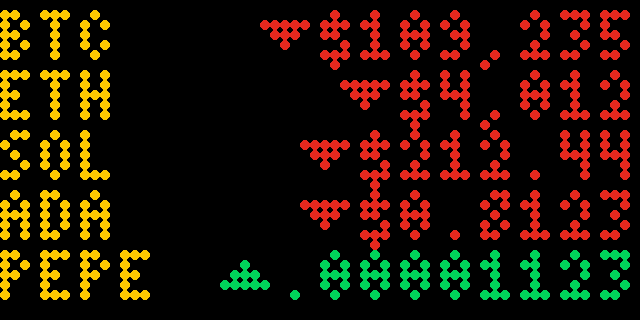
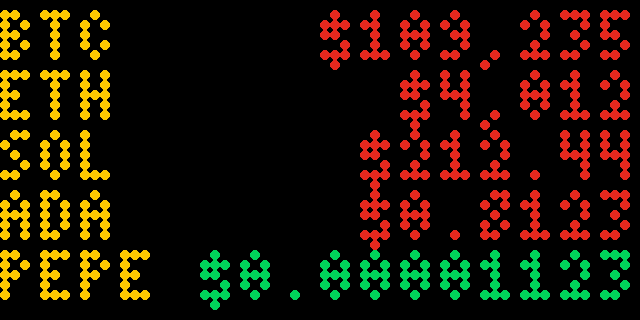
List view: symbol + whole price in green/red, list pages only
- Each row is now the symbol and the whole price (e.g. $77,530, not 77K),
  colored green if up for the day and red if down. The arrow and % change
  are gone. To fit, the currency sign and then the symbol are shortened
  before the price ever is; K/M is a last resort.
- List view shows only list pages: starred coins no longer add big and
  single-coin screens in front of the list. Focus still narrows the list
  to starred coins.
- Phone page labels, README, tests and list screenshots updated.

Claude-Session: https://claude.ai/code/session_01CrJip9iJt4GpEiYUED5guG

diff --git a/render.py b/render.py
@@ -831,32 +831,13 @@ class Renderer:
     def _drawable(font, text):
         return all(ord(c) in font.glyphs for c in text)
 
-    @staticmethod
-    def _arrow(img, x, baseline, up, color):
-        """5x3 triangle for fonts without ▲/▼ glyphs (4x6). Returns its width + gap."""
-        px = img.load()
-        rows = [(2, 2), (1, 3), (0, 4)] if up else [(0, 4), (1, 3), (2, 2)]
-        for dy, (a, b) in enumerate(rows):
-            for dx in range(a, b + 1):
-                px[x + dx, baseline - 4 + dy] = color
-        return 6
-
-    @staticmethod
-    def list_changes(change):
-        """Always with the % sign; one decimal unless there's no room at all."""
-        if change is None:
-            return ["--"]
-        arrow = "▲" if change >= 0 else "▼"
-        a = abs(change)
-        return [f"{arrow}{a:.1f}%", f"{arrow}{a:.0f}%"] if a < 100 else [f"{arrow}{a:.0f}%"]
-
     def list_page(self, assets, rows=5, stale=False):
-        """One page of up to ``rows`` coins.
+        """One page of up to ``rows`` coins: symbol on the left, the full price on the
+        right, colored green/red by the 24h change (no arrow or %).
 
-        rows=5: 4x6 font; symbol, then ▲/▼ + price colored by the 24h change.
-        rows=4: 5x8 font; symbol, price colored by the 24h change, and ▲/▼ % change.
-        A row that's too wide is shortened step by step (fewer digits, K/M, no
-        currency sign, shorter % change) until it fits the 64-pixel width.
+        rows=5 uses the 4x6 font, rows=4 the 5x8 font. The price is kept whole as long as
+        possible: full price, then without the currency sign, then a shorter symbol, and
+        only as a last resort a shortened price (4,012 -> 4.0K).
         """
         rows = rows if rows in self.LIST_ROWS else 5
         img = self._base()
@@ -866,41 +847,27 @@ class Renderer:
         gap = 3 if rows == 5 else 2
         for i, a in enumerate(assets[:rows]):
             baseline = top + i * line + font.ascent
-            change = a.get("change_24h")
-            color = trend_color(change)
-            sym = a["symbol"][:6]
-            sw = font.width(sym)
+            color = trend_color(a.get("change_24h"))
             right = 61 if stale and i == rows - 1 else 64  # leave room for the stale dot
             prices = [p for p in self.compact_prices(a["price"], self.currency) if self._drawable(font, p)]
             prices = prices or [f"{a['price']:.3g}"]
-            if rows == 5:
-                aw = 6 if change is not None else 0
-                room = right - sw - gap - aw
-                text = next((p for p in prices if font.width(p) <= room), prices[-1])
-                font.draw(img, 0, baseline, sym, SYMBOL)
-                x = right - font.width(text)
-                font.draw(img, x, baseline, text, color)
-                if aw:
-                    self._arrow(img, x - aw, baseline, change >= 0, color)
-            else:
-                # keep the % change whole; shorten the price first (4,012 -> 4.0K),
-                # then the change's decimal, and only then a long symbol
-                fit = None
-                for symbol in (sym, sym[:4], sym[:3]):
-                    sw = font.width(symbol)
-                    for ctext in self.list_changes(change):
-                        fit = next(((p, ctext) for p in prices
-                                    if sw + gap + font.width(p) + gap + font.width(ctext) <= right), None)
-                        if fit:
-                            break
-                    if fit:
-                        sym = symbol
-                        break
-                ptext, ctext = fit or (min(prices, key=font.width), self.list_changes(change)[-1])
-                cw = font.width(ctext)
-                font.draw(img, 0, baseline, sym, SYMBOL)
-                font.draw(img, right - cw - gap - font.width(ptext), baseline, ptext, color)
-                font.draw(img, right - cw, baseline, ctext, color)
+            sign = CURRENCY_SIGNS.get(self.currency, "")
+            whole = [p for p in prices if "K" not in p and "M" not in p] or prices[:1]
+            full_sym = a["symbol"][:6]
+            sym, text = full_sym, None
+            # whole price first (with sign, then without), shortening the symbol before the price
+            for symbol in (full_sym, full_sym[:5], full_sym[:4], full_sym[:3]):
+                room = right - font.width(symbol) - gap
+                text = next((p for p in whole if font.width(p) <= room), None)
+                if text:
+                    sym = symbol
+                    break
+            if text is None:  # last resort: K/M forms with the full symbol
+                room = right - font.width(full_sym) - gap
+                sym = full_sym
+                text = next((p for p in prices if font.width(p) <= room), min(prices, key=font.width))
+            font.draw(img, 0, baseline, sym, SYMBOL)
+            font.draw(img, right - font.width(text), baseline, text, color)
         img = self._place(img)
         return self.stale_mark(img) if stale else img
 

diff --git a/tests/test_focus_list.py b/tests/test_focus_list.py
@@ -75,8 +75,8 @@ def test_focus_keeps_other_screens():
                                      (4, [("BTC", "ETH", "ADA", "SOL"), ("PEPE", "DOGE", "LINK")])])
 def test_list_view_pages(monkeypatch, n, pages):
     calls = kinds(ticker(list_view=n, featured=["eth"]), monkeypatch)
-    assert calls[:2] == [("big", "ETH"), ("coin", "ETH")]  # starred keep big screens
-    assert [c[1] for c in calls if c[0] == "list"] == pages
+    assert all(c[0] == "list" for c in calls)  # list pages only, even with a starred coin
+    assert [c[1] for c in calls] == pages
 
 
 def test_list_view_with_focus_lists_only_starred(monkeypatch):
@@ -147,9 +147,10 @@ def test_5x8_punctuation_sits_on_the_baseline():
 
 
 @pytest.mark.parametrize("currency", ["usd", "eur", "jpy"])
-def test_4_row_list_always_shows_percent_and_fits(currency):
+@pytest.mark.parametrize("rows", [4, 5])
+def test_list_rows_fit_without_percent(currency, rows):
     r = Renderer(currency=currency)
-    font = r.fonts["5x8"]
+    font = r.fonts["5x8"] if rows == 4 else r.fonts["4x6"]
     drawn = []
     real = font.draw
 
@@ -159,20 +160,19 @@ def test_4_row_list_always_shows_percent_and_fits(currency):
 
     font.draw = spy
     for price in (109234.56, 4012.37, 999.99, 212.44, 22.41, 0.8123, 0.00001123, 1234567.0):
-        for change in (-2.91, 12.345, -123.4, 0.0):
+        for change in (-2.91, 12.345, -123.4, 0.0, None):
             for sym in ("ETH", "PEPE", "LONGSYM"):
                 a = sample_assets(["btc"])[0] | {"symbol": sym, "price": price, "change_24h": change}
                 drawn.clear()
-                r.list_page([a], rows=4)
-                ctext = drawn[-1][2]
-                assert ctext.endswith("%"), (price, change, sym, drawn)
+                r.list_page([a], rows=rows)
+                assert len(drawn) == 2 and not any("%" in t for _, _, t in drawn), drawn
                 for x, _, text in drawn:                 # nothing overlaps or runs off the edge
                     assert x >= 0 and x + font.width(text) <= 64, (price, change, sym, drawn)
-                xs = sorted((x, x + font.width(t)) for x, _, t in drawn)
-                assert all(a_end <= b_start for (_, a_end), (b_start, _) in zip(xs, xs[1:])), drawn
+                (x1, _, t1), (x2, _, _) = sorted(drawn)
+                assert x1 + font.width(t1) <= x2, drawn
 
 
-def test_eth_example_uses_short_price_not_dropped_percent():
+def test_eth_example_keeps_the_whole_price():
     r = Renderer()
     a = sample_assets(["eth"])[0] | {"price": 4012.37, "change_24h": -2.91}
     font = r.fonts["5x8"]
@@ -180,7 +180,7 @@ def test_eth_example_uses_short_price_not_dropped_percent():
     real = font.draw
     font.draw = lambda img, x, b, t, c: (drawn.append(t), real(img, x, b, t, c))[1]
     r.list_page([a], rows=4)
-    assert drawn == ["ETH", "4.0K", "▼2.9%"]
+    assert drawn == ["ETH", "$4,012"]
 
 
 @pytest.mark.parametrize("price", [0.00009999, 0.000099999, 0.0000999, 0.00001123, 0.0000000123])
@@ -279,3 +279,16 @@ def test_list_pages_use_the_transition_setting(rows, transition, frames):
     if frames:
         expected = transition_frames(shown[pages[0]][0], shown[pages[1]][0], vertical=transition == "scroll")
         assert all(a.tobytes() == b.tobytes() for (a, _), b in zip(between, expected))
+
+
+def test_list_row_shows_whole_price_without_percent():
+    r = Renderer()
+    a = sample_assets(["btc"])
+    a[0]["price"], a[0]["change_24h"] = 77530.0, 2.0
+    for rows in (5, 4):
+        img = r.list_page(a, rows=rows)
+        font = r.fonts["4x6"] if rows == 5 else r.fonts["5x8"]
+        # the full "$77,530" fits next to BTC, so the K form is never chosen
+        assert font.width("BTC") + 3 + font.width("$77,530") <= 64
+        colors = {img.getpixel((x, y)) for x in range(64) for y in range(32)}
+        assert UP in colors and DOWN not in colors

diff --git a/webui.py b/webui.py
@@ -912,9 +912,9 @@ function render(){
    <div class="row" style="border-top:0;padding-top:0"><input type="range" id="bright" min="5" max="100" value="${S.brightness}"></div>
    <div class="row"><div class="grow">Seconds per coin</div><div class="val" id="sv">${S.sleep}s</div></div>
    <div class="row" style="border-top:0;padding-top:0"><input type="range" id="sleep" min="2" max="30" value="${S.sleep}"></div>
-   <div class="row"><div class="grow">List view<div class="name" style="white-space:normal">Several coins per screen. Starred coins still get their big screens.</div></div>
+   <div class="row"><div class="grow">List view<div class="name" style="white-space:normal">Several coins per screen: symbol and price, green if up for the day, red if down.</div></div>
     <label class="switch"><input type="checkbox" id="listview" ${S.list_view!='off'?'checked':''}><span></span></label></div>
-   ${S.list_view!='off'?`<div class="row" style="border-top:0;padding-top:0">${seg('list_view',[['4','4 coins + %'],['5','5 coins']])}</div>
+   ${S.list_view!='off'?`<div class="row" style="border-top:0;padding-top:0">${seg('list_view',[['4','4 coins'],['5','5 coins (smaller)']])}</div>
    <div class="row"><div class="grow">Seconds per page</div><div class="val" id="lpv">${S.list_page_seconds}s</div></div>
    <div class="row" style="border-top:0;padding-top:0"><input type="range" id="lpage" min="2" max="30" value="${S.list_page_seconds}"></div>`:''}
    <div class="row"><div class="grow">Transition<div class="name" style="white-space:normal">How one screen changes to the next.</div></div></div>

diff --git a/ticker.py b/ticker.py
@@ -670,10 +670,9 @@ class Ticker:
             out.append(lambda a=asset: (self.renderer.asset(a, stale=self.stale), sleep))
 
         if self.cfg.list_view:
+            # List view is list pages only (no big or single-coin screens); Focus still
+            # narrows the list to starred coins.
             n = self.cfg.list_view
-            for asset in coins:
-                if asset["id"] in starred_ids:
-                    big(asset)
             for i in range(0, len(coins), n):
                 out.append(lambda page=coins[i:i + n]: (
                     self.renderer.list_page(page, rows=n, stale=self.stale), self.cfg.list_page_seconds))

diff --git a/README.md b/README.md
@@ -214,7 +214,7 @@ value is logged as a warning and the default is used.
 | `LAYOUT` | `classic` | `classic` (icon + mini chart), `chart` (full-screen chart), `mix` |
 | `FEATURED` | | Starred coins: get a big-picture screen before their price |
 | `FOCUS` | `off` | `on` = coin rotation shows only starred coins, one big-picture screen each (clock, Fear & Greed and indices keep running). With nothing starred, all coins show |
-| `LIST_VIEW` | `off` | `off`, `4` (pages of 4: price + % change; the phone page's switch turns this on) or `5` (pages of 5 coins: ▲/▼ + price). Starred coins keep their big screens |
+| `LIST_VIEW` | `off` | `off`, `4` (pages of 4 coins; the phone page's switch turns this on) or `5` (pages of 5, smaller font). Each row is the symbol and the whole price, green if up for the day, red if down. List view shows only list pages (no big screens); Focus narrows it to starred coins |
 | `LIST_PAGE_SECONDS` | `6` | Seconds per list page (2–60) |
 | `SCREENS` | `clock,feargreed,indices,coins` | Screens at the start of each cycle, in order (coins always last). Also `weather`, `news`, `videos`, `sports` (off by default) |
 | `INDICES_SOURCE` | `coingecko` | `coingecko` (tokenized funds, no extra calls) or `yahoo` (real index values; unofficial) |
